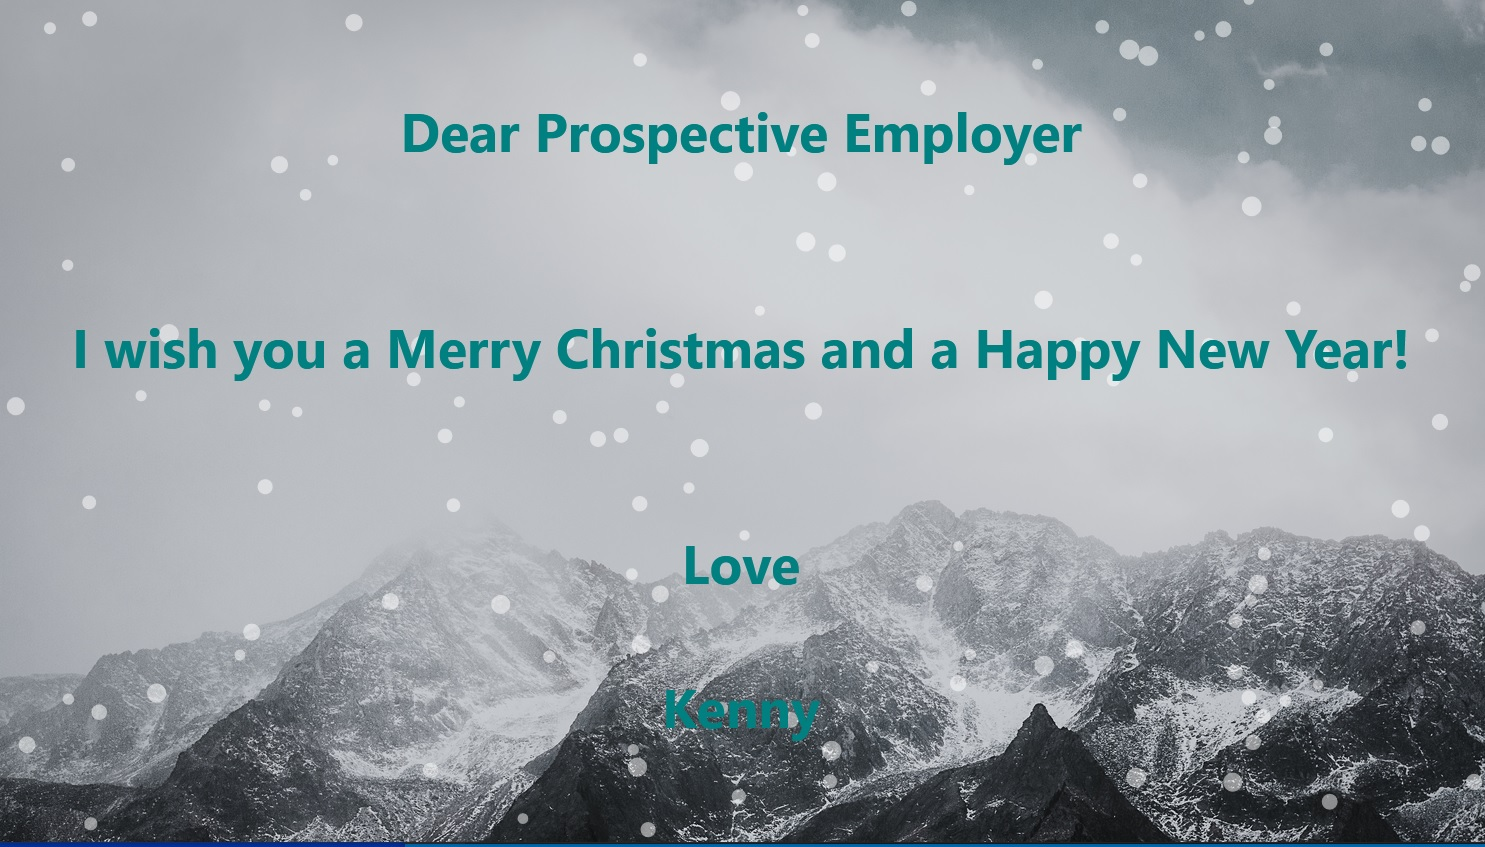
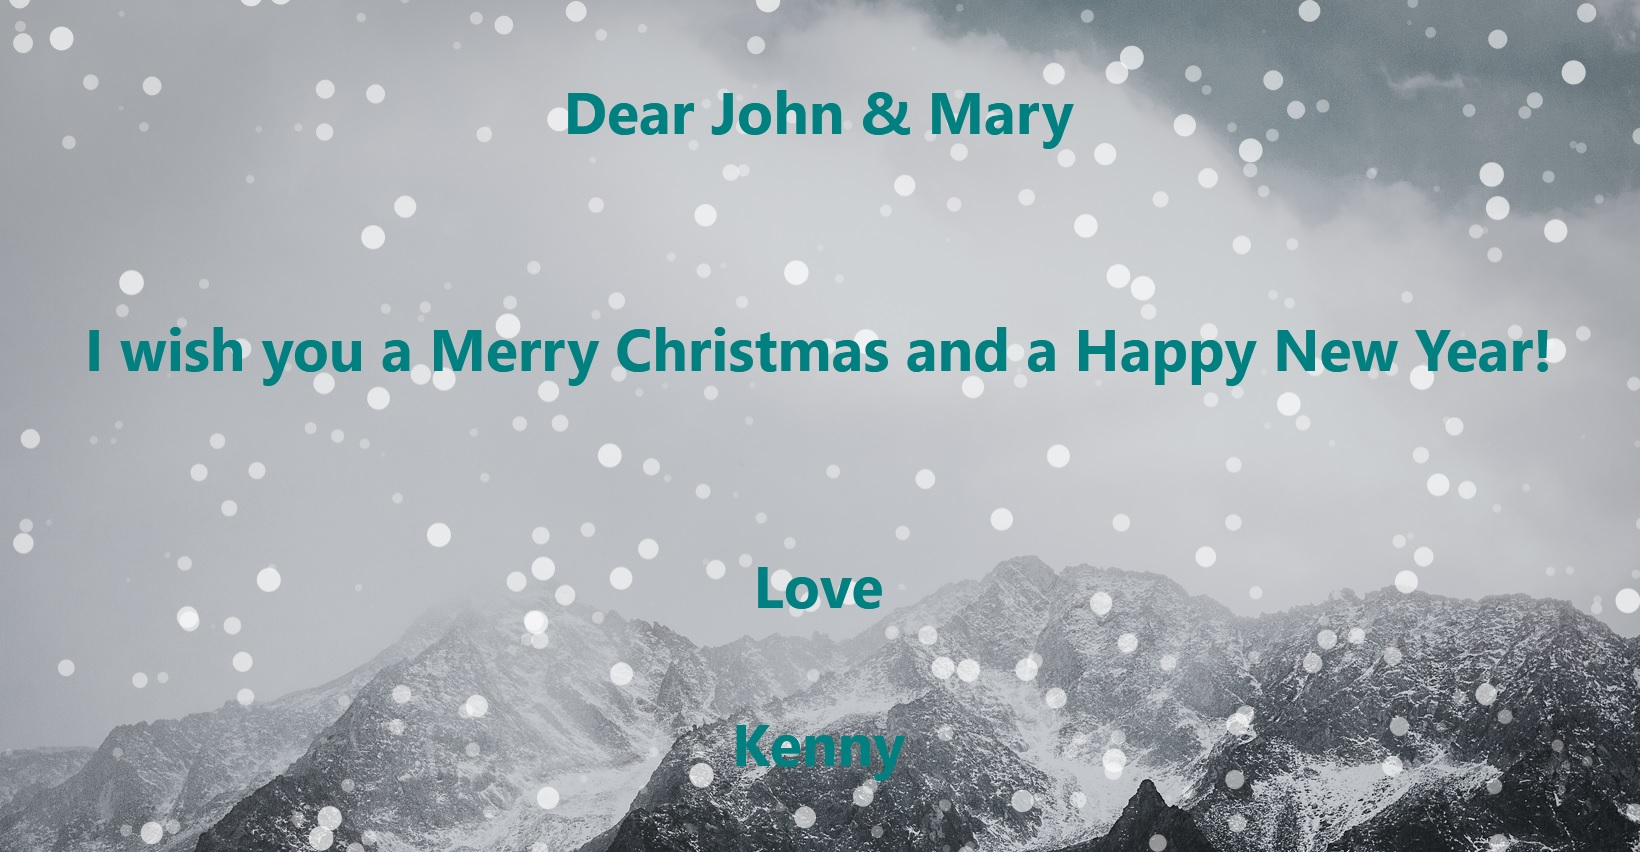
Updated Christmas Card project image and link

diff --git a/src/template.html b/src/template.html
@@ -336,7 +336,7 @@
                   rel="noreferrer"
                   target="_blank"
                   class="cta-btn cta-btn--hero"
-                  href="https://kennymcgeoch.github.io/christmas-card/?3eProspective%20Employer#Kenny"
+                  href="https://kennymcgeoch.github.io/christmas-card/?3eJohn%20&%20Mary#Kenny"
                 >
                   See Live
                 </a>
@@ -375,7 +375,7 @@
       <div class="container">
         <h2 class="section-title">Contact</h2>
         <div class="contact-wrapper">
-          <p class="contact-wrapper__text">Want to get in touch? By all means email me!</p>
+          <p class="contact-wrapper__text">I'm always happy to hear feedback or work opportunities. You can reach me by email:</p>
           <a
             rel="noreferrer"
             target="_blank"
